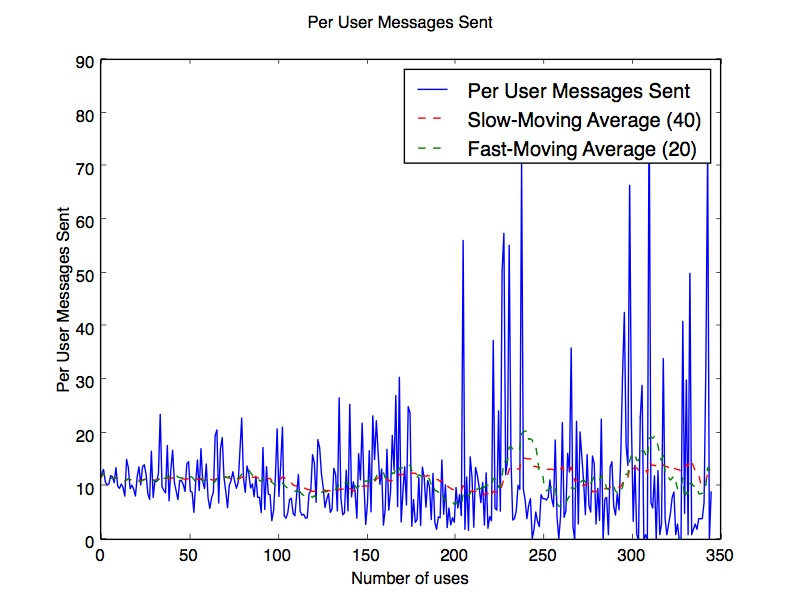
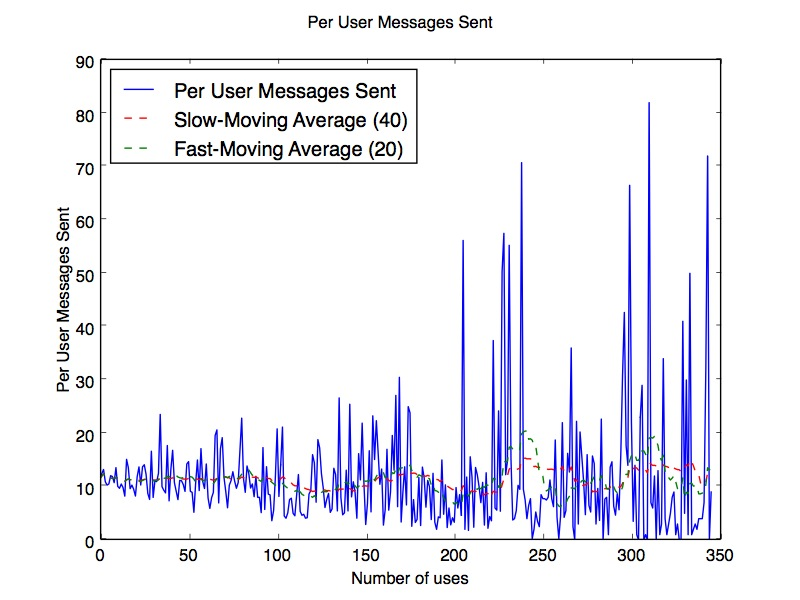
Moved legends in some graphs and made new regret charts

Changed region(s): [[0.1562, 0.09, 0.9062, 0.3]]

diff --git a/regret_analysis.py b/regret_analysis.py
@@ -175,7 +175,7 @@ def do_cumulative_regret_analysis(data, metric, metric_label, y_label='Cumulativ
   cumulative_regret_data = cumulative_regret(data, metric)
   save_list_plot(cumulative_regret_data, metric_label, ylabel=y_label)
 
-def do_per_user_analysis(data, user1_metric, user2_metric, metric_title, slow_moving_average_window, fast_moving_average_window):
+def do_per_user_analysis(data, user1_metric, user2_metric, metric_title, slow_moving_average_window=40, fast_moving_average_window=20, legend_location="upper left"):
   user_data = generate_user_data(data, user1_metric, user2_metric)
   slow_moving_average = get_moving_average(user_data, slow_moving_average_window)
   fast_moving_average = get_moving_average(user_data, fast_moving_average_window)
@@ -186,7 +186,7 @@ def do_per_user_analysis(data, user1_metric, user2_metric, metric_title, slow_mo
   plt.plot(user_data, label=metric_title)
   plt.plot(slow_moving_average, 'r--', label=('Slow-Moving Average (' + str(slow_moving_average_window) + ')'))
   plt.plot(fast_moving_average, 'g--', label=('Fast-Moving Average (' + str(fast_moving_average_window) + ')'))
-  plt.legend()
+  plt.legend(loc=legend_location)
   fig.savefig('./Pictures/' + metric_title.replace(' ', '') +'.jpg')
 
 
@@ -202,6 +202,11 @@ first_half_data = json.load(open('first_half_ta_data.json', 'r'))
 # Do cumulative regret analysis on truncated data
 do_cumulative_regret_analysis(first_half_data, fb_match_occurred, 'TA De-Anonymization Regret (First Half of Data)')
 do_cumulative_regret_analysis(second_half_data, fb_match_occurred, 'TA De-Anonymization Regret (Second Half of Data)')
+do_cumulative_regret_analysis(first_half_data, no_immediate_disconnect_occurred, 'TA Participation Rate Regret (First Half of Data)')
+do_cumulative_regret_analysis(second_half_data, no_immediate_disconnect_occurred, 'TA Participation Rate Regret (Second Half of Data)')
+do_cumulative_regret_analysis(first_half_data, total_user_messages_sent, 'TA Messages Sent Regret (First Half of Data)')
+do_cumulative_regret_analysis(second_half_data, total_user_messages_sent, 'TA Messages Sent Regret (Second Half of Data)')
+
 
 # Do win-ratio analysis
 do_win_ratio_analysis(data, fb_match_occurred, 'TA De-Anonymization', 'Proportion of De-Anonymized Conversations')
@@ -214,7 +219,7 @@ do_cumulative_regret_analysis(data, no_immediate_disconnect_occurred, 'TA Partic
 do_cumulative_regret_analysis(data, total_user_messages_sent, 'TA Messages Sent Regret')
 
 # Do per-user analysis
-do_per_user_analysis(data, first_user_clicked, second_user_clicked, 'Per User FB Connect', 40, 20)
-do_per_user_analysis(data, first_user_participated, second_user_participated, 'Per User Participation', 40, 20)
-do_per_user_analysis(data, first_user_messages_sent, second_user_messages_sent, 'Per User Messages Sent', 40, 20)
+do_per_user_analysis(data, first_user_clicked, second_user_clicked, 'Per User De-Anonymization')
+do_per_user_analysis(data, first_user_participated, second_user_participated, 'Per User Participation', legend_location="lower left")
+do_per_user_analysis(data, first_user_messages_sent, second_user_messages_sent, 'Per User Messages Sent')
 
